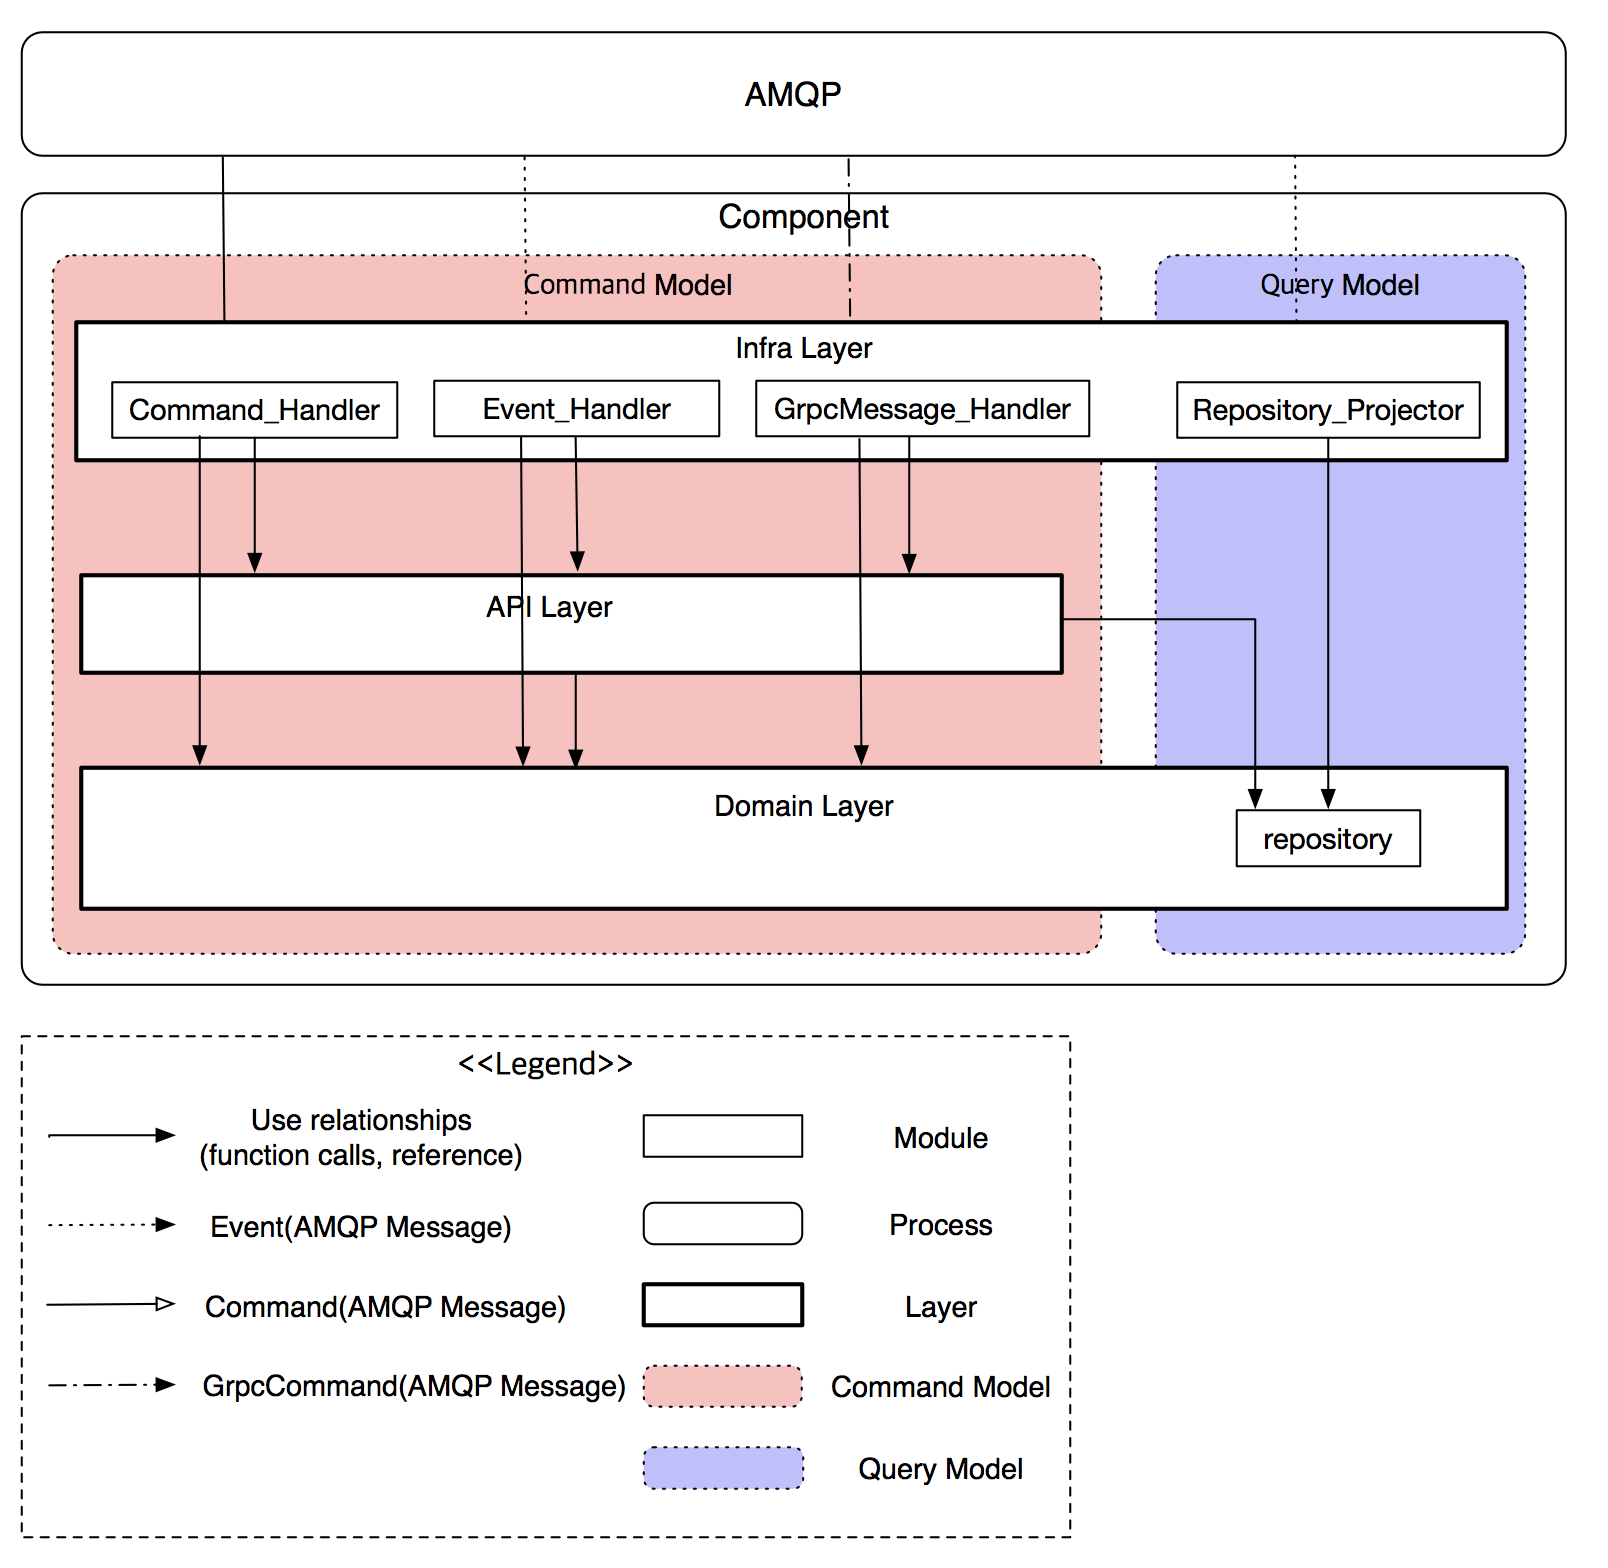
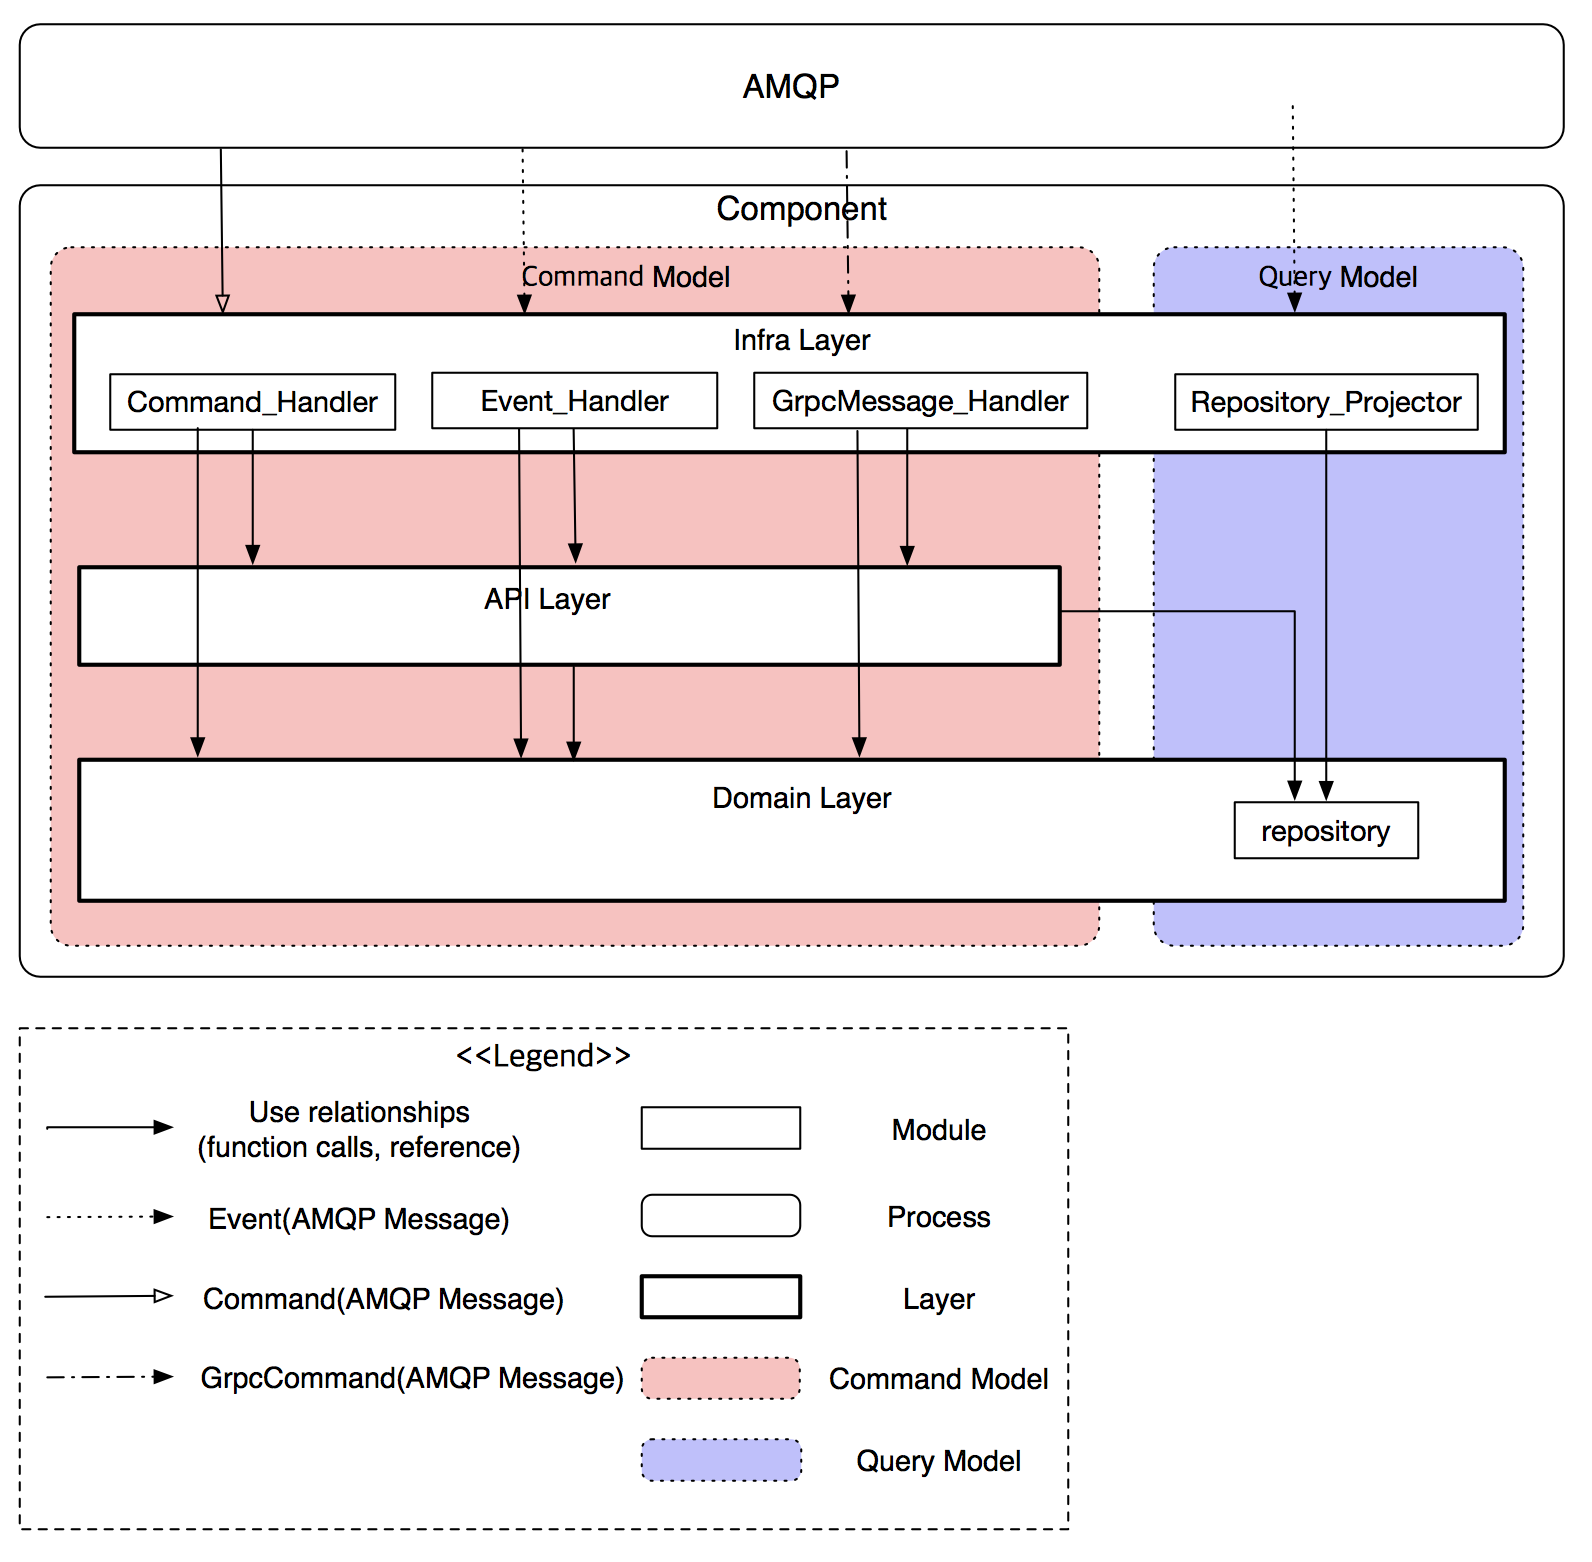
add publish view

diff --git a/doc/LOGICAL-ARCHITECTURE-KR.md b/doc/LOGICAL-ARCHITECTURE-KR.md
@@ -60,8 +60,14 @@ it-chain의 컴포넌트들 간의 통신은 AMQP(Advanced Message Que Protocol)
 
 여기서 중요한 점은 `event handler` 와 `command handler` 의 역할은 infra에서 수신한 amqp 메세지에 대한 adapter의 임무만을 수행한다는 것이며, 해당 component 내에서 이루어져야 하는 일련의 작업들과 구체적인 구현은 handler 내에서 이루어 지면 안된다는 점이다. handler가 특정 event와 command에 대한 적합한 api 호출 혹은 repository projection 만을 수행하게 함으로써 handler와 application layer 사이의 명확한 역할의 분담이 이루어지게 되고 adapter 내에서 일체의 비즈니스 로직이 이루어 지지 않도록 구분지었다.
 
-**Communication between components via AMQP Design Model**
-![handler](../images/logical-view-cqrs-pattern.png)
+
+
+**Consume from AMQP**
+![handler](../images/[logical]component-consume.png)
+
+**Publish to AMQP**
+
+![handler](../images/[logical]component-publish.png)
 
 ## Event Handler
 Event handler는 amqp에서 event를 consume하여 필요한 작업을 수행하며, 크게 event 를 기반으로 repository 에 projection을 수행하는 기능과, event 발생시 처리되어야 하는 일련의 작업을 api에 위임하여 처리하는 기능 두가지로 나뉜다. 첫번째 기능은 event_handler 내의 `repository projector` 를 통해 수행되며, 두번째 기능은 event_handler내에서 api 호출을 통해 수행된다. repository projector가 repository projection을 수행하지만, evnet_handler는 필요에 따라 repository에 접근할 수 있다.
@@ -76,7 +82,7 @@ it-chain은 repository에 대한 쓰기와 읽기를 분리하는 CQRS(Command Q
 # Communication between peers
 peer 사이의 통신은 gRPC library 기반의 자체 library 인 bifrost를 활용하여 이루어 진다. 각 peer 사이에서 rpc 통신은 message 객체를 주고받는 것으로 이루어 지며, _송신은 각 컴포넌트의 service의 한 종류인 `message_service` 에서 이루어 지며, 수신은 각 컴포넌트의 infra의 message handler에서 이루어 진다._ 각 메세지는 메세지의 목적에 따라 미리 정해진 protocol 을 포함하며 message handler에서 특정 protocol에 따라 적합한 api 함수를 호출함으로써 모든 기능 수행을 application layer에 위임한다.
 
-<p align="center"><img src="../images/communication-between-peers.png" width="500px" height="600px"></p>
+<p align="center"><img src="../images/[logical]peer-communication.png"></p>
 
 
 
